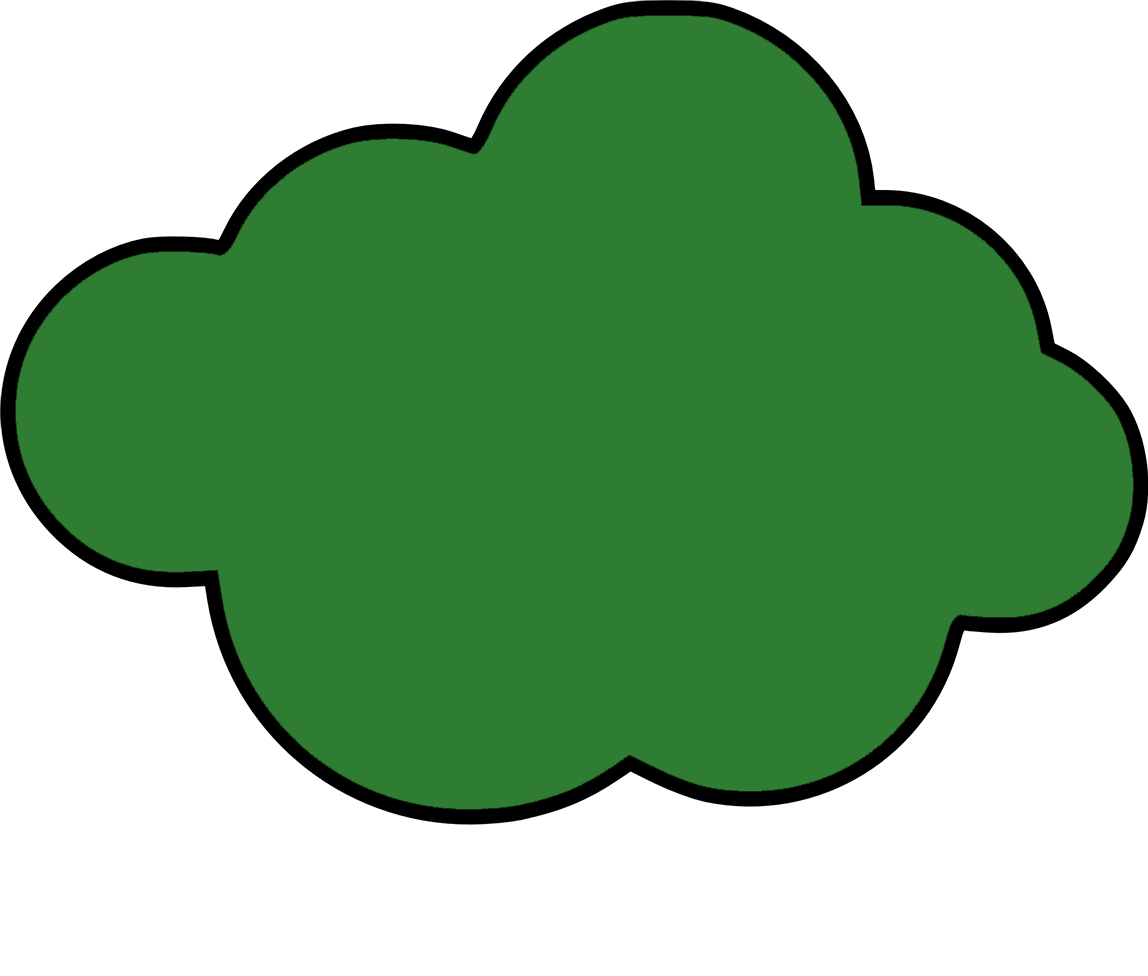
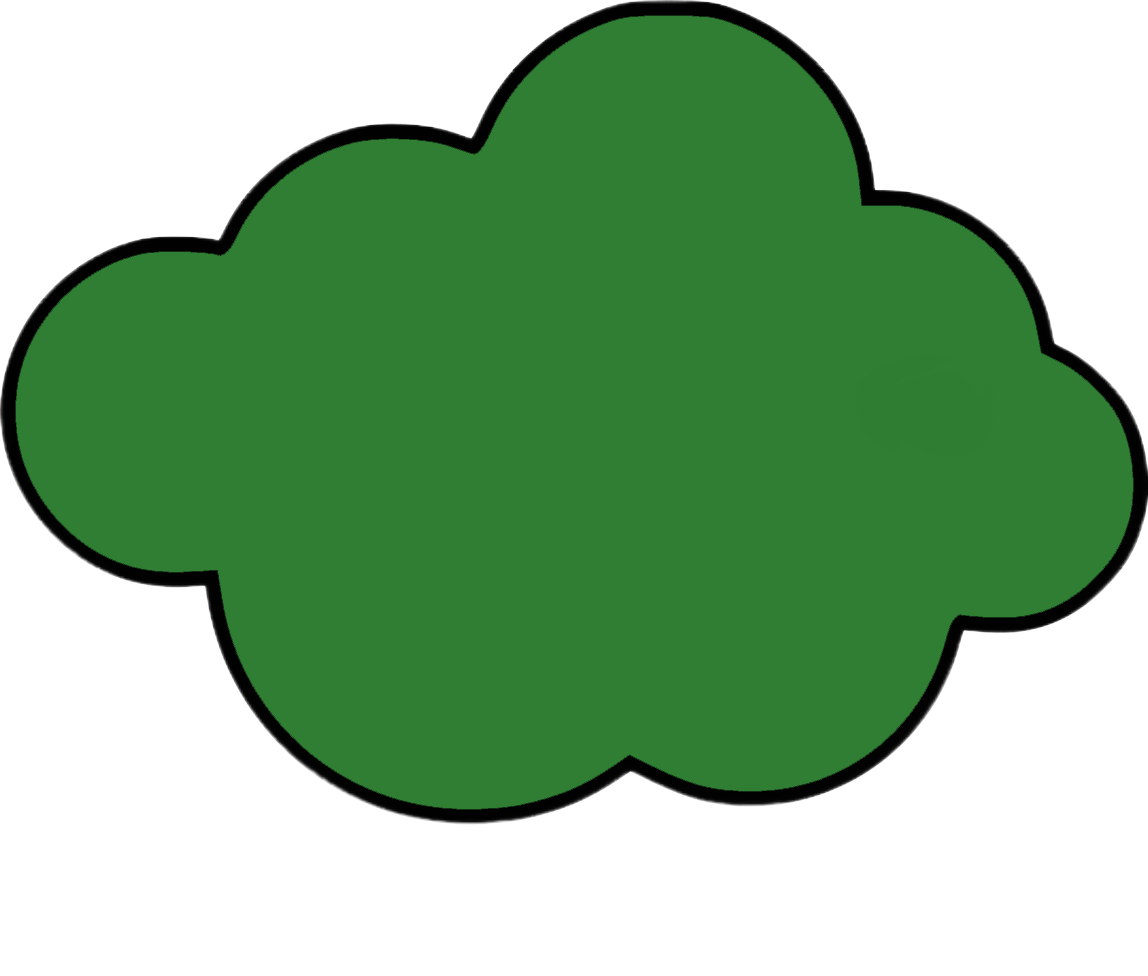
7_8

diff --git a/src/components/Questions/Multi.tsx b/src/components/Questions/Multi.tsx
@@ -56,7 +56,7 @@ export function Multi(props: MultiProps) {
     const [clic, setClic] = useState<number>()
     const context = useContext(Context)//
     const [commentNember, setCommentNember] = useState(0)
-    const [background, setBackground] = useState<string>(props.show ? (props.answer && props.answer.isCorrect ? '/cloud/Green.png' : '/cloud/Red.png') : '/cloud/White.png');
+    const [background, setBackground] = useState<string | undefined>();
     let correct: boolean[] = new Array(props.question.answers.length).fill(false)
     useEffect(() => {
         props.show && props.answer && setComment(props.answer.comment)
@@ -83,18 +83,53 @@ export function Multi(props: MultiProps) {
 
             {(answer || props.show) ?
                 <Typography component={'span'}>
-                    <div className="comment" style={{ backgroundImage: `url(${background})`, flexDirection: 'row', alignItems: 'center' }}>
+                    <div className="comment" style={{ padding: `${(commentNember == 0 ? '115px 0px 115px 0px' : props.question.answers[commentNember - 1].commentPadding)}`, backgroundImage: `url(/cloud/${props.answer ? (props.answer.isCorrect ? 'Green.png' : 'Red.png') : background})`, flexDirection: 'row', alignItems: 'center' }}>
                         {/* {console.log(props.question.answers[jopa].commentSize)} */}
                         <IconButton onClick={() => { commentNember != 0 ? setCommentNember(commentNember - 1) : true }}>
                             <ArrowBackIcon />
                         </IconButton>
-                        <div style={{ padding: `${(commentNember == 0 ? '1px' : props.question.answers[commentNember - 1].commentPadding)}`, width: `${commentNember == 0 ? '300px' : props.question.answers[commentNember - 1].commentSize}` }}>
+                        <div style={{ width: `${commentNember == 0 ? '161px' : props.question.answers[commentNember - 1].commentSize}` }}>
                             {comment[commentNember]}
                         </div>
                         <IconButton onClick={() => { commentNember < comment.length - 1 ? setCommentNember(commentNember + 1) : true }}>
                             <ArrowForwardIcon />
                         </IconButton>
                     </div>
+
+
+                    <div style={{
+                        backgroundImage: `url(/cloud/circle/${background})`,
+                        position: 'absolute',
+                        top: '15%',
+                        right: '55%',
+                        width: '30px',
+                        height: '30px',
+                        backgroundSize: 'contain',
+                        backgroundRepeat: 'no-repeat',
+                        backgroundPosition: 'center'
+                    }}></div>
+                    <div style={{
+                        backgroundImage: `url(/cloud/circle/${background})`,
+                        position: 'absolute',
+                        top: '11%',
+                        right: '58%',
+                        width: '40px',
+                        height: '40px',
+                        backgroundSize: 'contain',
+                        backgroundRepeat: 'no-repeat',
+                        backgroundPosition: 'center'
+                    }}></div>
+                    <div style={{
+                        backgroundImage: `url(/cloud/circle/${background})`,
+                        position: 'absolute',
+                        top: '8%',
+                        right: '62%',
+                        width: '50px',
+                        height: '50px',
+                        backgroundSize: 'contain',
+                        backgroundRepeat: 'no-repeat',
+                        backgroundPosition: 'center'
+                    }}></div>
                 </Typography> :
                 <Typography component={'span'}>
                     <div className="question" style={{ padding: '10px', width: `${props.question.textSize}` }}>{props.question.text}</div>
@@ -158,7 +193,7 @@ export function Multi(props: MultiProps) {
                         setComment((old) => [...old, ...comments])
                         const answer: AnswerMulti = { isCorrect: JSON.stringify(correct) == JSON.stringify(check), type: "multi", userAnswers: userAnswers, comment: comments }
                         context && (answer.isCorrect ? context.setBackground('smile.png') : context.setBackground('discontent.png'))//
-                        answer.isCorrect ? setBackground('/cloud/Green.png') : setBackground('/cloud/Red.png')
+                        answer.isCorrect ? setBackground('Green.png') : setBackground('Red.png')
                         comments.length <= 0 ? ((context && context.setBackground(0)), (props.callbackFinish && props.callbackFinish(answer))) : setAnswer(answer) //переделай
                         // comments.length <= 0 ? props.callbackFinish && props.callbackFinish(answer) && setAnswer(undefined) : ''
                     }}
@@ -177,7 +212,7 @@ export function Multi(props: MultiProps) {
                             setComment([])
                             correct = []
                             setCheck([])
-                            setBackground('/cloud/White.png')
+                            setBackground('White.png')
                             context && context.setBackground('interested.png')
                             props.callbackFinish && props.callbackFinish(answer)
                             setAnswer(undefined)

diff --git a/src/components/Questions/Standart.tsx b/src/components/Questions/Standart.tsx
@@ -19,11 +19,11 @@ export function Standart(props: StandartProps) {
     const [lock, setLock] = useState<boolean>(false)
     const [clic, setClic] = useState<number>()
     const context = useContext(Context)//
-    const [background, setBackground] = useState<string>(props.answer && props.answer.isCorrect ? 'Green.png' : 'Red.png');
-    const [jopa, setJopa] = useState<number>(props.answer ? props.answer.userNuberAnswers : -1)
-    console.log(answer, props.show, props.answer)
-    return <>
+    const [background, setBackground] = useState<string | undefined>();
 
+    const [jopa, setJopa] = useState<number>(props.answer ? props.answer.userNuberAnswers : -1)
+    console.log(background, typeof props.answer, props.show, typeof props.answer, props.answer && props.answer.isCorrect)
+    return <>
         <div className="box">
 
             <div style={{ height: '40%' }}>
@@ -38,7 +38,7 @@ export function Standart(props: StandartProps) {
                 {/* 1148 x 976 */}
                 {(answer || (props.show && (props.answer && props.answer.comment != ''))) ?
                     <Typography component={'span'}>
-                        <div className="comment" style={{ backgroundImage: `url(/cloud/${background})` }}>
+                        <div className="comment" style={{ backgroundImage: `url(/cloud/${props.answer ? (props.answer.isCorrect ? 'Green.png' : 'Red.png') : background})` }}>{/*если вставить props.answer.isCorrect ? 'Green.png' : 'Red.png') в момент обьявления то онм не сработает*/}
                             {/* {console.log(props.question.answers[jopa].commentSize)} */}
                             <div style={{ padding: `${(props.question.answers[jopa].commentPadding)}`, width: `${props.question.answers[jopa].commentSize}` }}>{answer ? comment : props.show && props.answer ? props.answer.comment : ""}</div>
                         </div>
@@ -46,10 +46,32 @@ export function Standart(props: StandartProps) {
                         <div style={{
                             backgroundImage: `url(/cloud/circle/${background})`,
                             position: 'absolute',
-                            top: '5%',
-                            right: '0%',
-                            width: '100px',
-                            height: '100px',
+                            top: '15%',
+                            right: '55%',
+                            width: '30px',
+                            height: '30px',
+                            backgroundSize: 'contain',
+                            backgroundRepeat: 'no-repeat',
+                            backgroundPosition: 'center'
+                        }}></div>
+                        <div style={{
+                            backgroundImage: `url(/cloud/circle/${background})`,
+                            position: 'absolute',
+                            top: '11%',
+                            right: '58%',
+                            width: '40px',
+                            height: '40px',
+                            backgroundSize: 'contain',
+                            backgroundRepeat: 'no-repeat',
+                            backgroundPosition: 'center'
+                        }}></div>
+                        <div style={{
+                            backgroundImage: `url(/cloud/circle/${background})`,
+                            position: 'absolute',
+                            top: '8%',
+                            right: '62%',
+                            width: '50px',
+                            height: '50px',
                             backgroundSize: 'contain',
                             backgroundRepeat: 'no-repeat',
                             backgroundPosition: 'center'

diff --git a/src/components/Introduction.tsx b/src/components/Introduction.tsx
@@ -40,7 +40,8 @@ export function Introduction(props: IntroductionProps) {
 
                     <Button sx={Styles.First}
                         variant="contained"
-                        onClick={() => { props.callbackSex && props.callbackSex(false); setBackground("/backgroundMan/interested.png"); setCondition(condition + 1) }}
+                        // onClick={() => { props.callbackSex && props.callbackSex(false); setBackground("/backgroundMan/interested.png"); setCondition(condition + 1) }}
+                        onClick={() => { props.callbackSex && props.callbackSex(true); setBackground("/backgroundGirl/interested.png"); setCondition(condition + 1) }}
                     ><WomanIcon sx={{ color: 'white', fontSize: '50px', padding: '16px' }} /></Button>
                 </div>
             </div >

diff --git a/public/index.html b/public/index.html
@@ -27,9 +27,11 @@
   <link rel="preload" href="%PUBLIC_URL%/backgroundMan/upset.png" as="image">
   <link rel="preload" href="%PUBLIC_URL%/backgroundMan/breakdown.png" as="image">
 
-  <link rel="preload" href="%PUBLIC_URL%/cloud/White.png" as="image">
   <link rel="preload" href="%PUBLIC_URL%/cloud/Green.png" as="image">
   <link rel="preload" href="%PUBLIC_URL%/cloud/Red.png" as="image">
+
+  <link rel="preload" href="%PUBLIC_URL%/cloud/circle/Green.png" as="image">
+  <link rel="preload" href="%PUBLIC_URL%/cloud/circle/Red.png" as="image">
 
 
   <link rel="preconnect" href="https://fonts.googleapis.com">

diff --git a/src/components/button-level/button.tsx b/src/components/button-level/button.tsx
@@ -26,7 +26,7 @@ export function ButtonLevel(props: ButtonLevelProps) {
           const color = props.answers[i] ? (props.answers[i].isCorrect ? 'success' : 'error') : 'primary';
 
           return <Button sx={Styles.Text} onClick={() => {
-            console.log(props.answers[i])
+            //console.log(props.answers[i])
 
             if (props.answers[i] != undefined) {
               context && (props.answers[i].isCorrect ?
